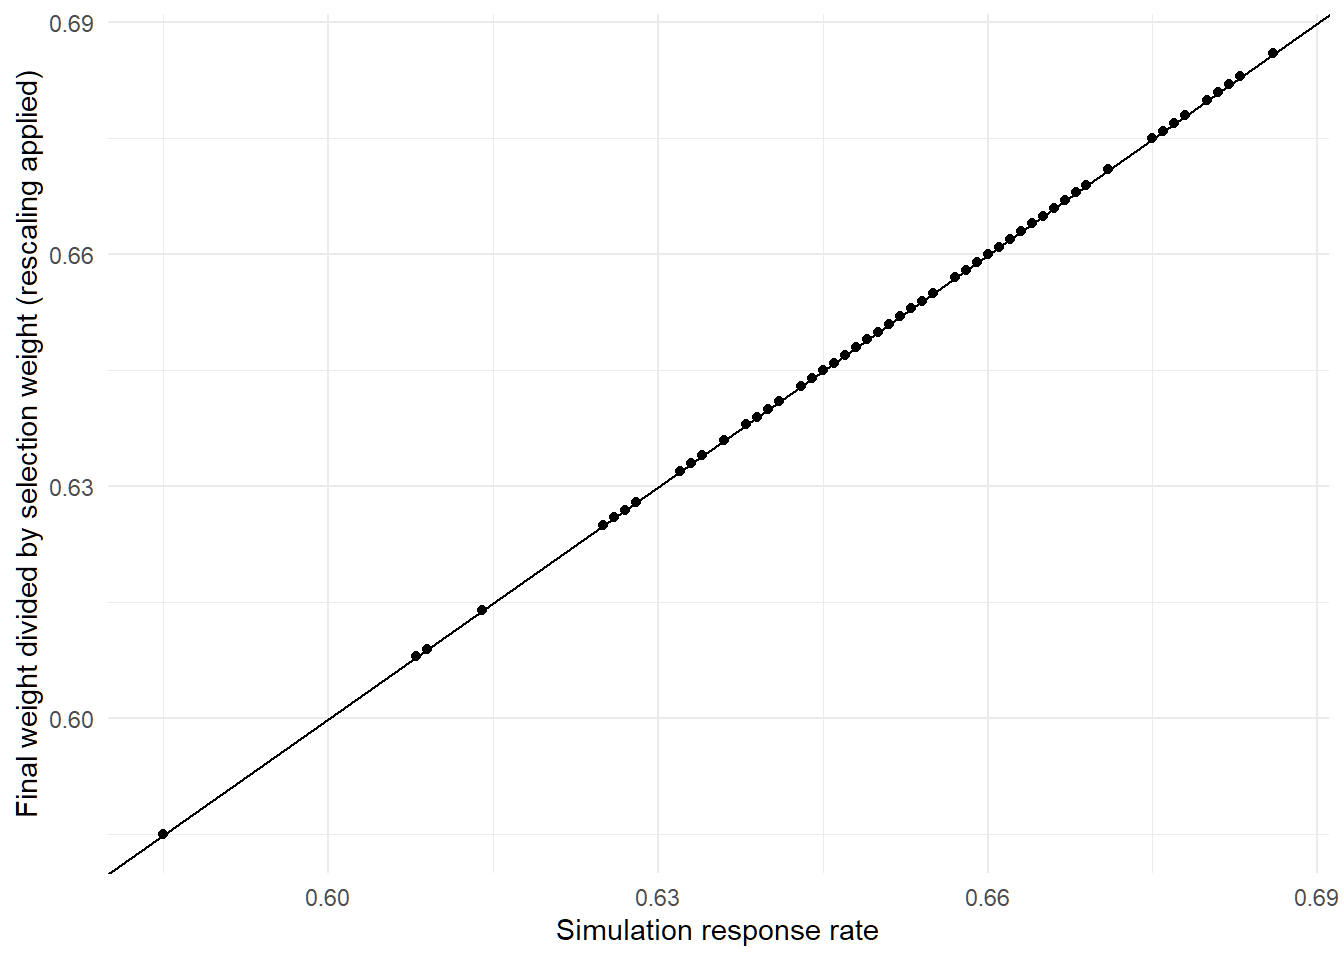
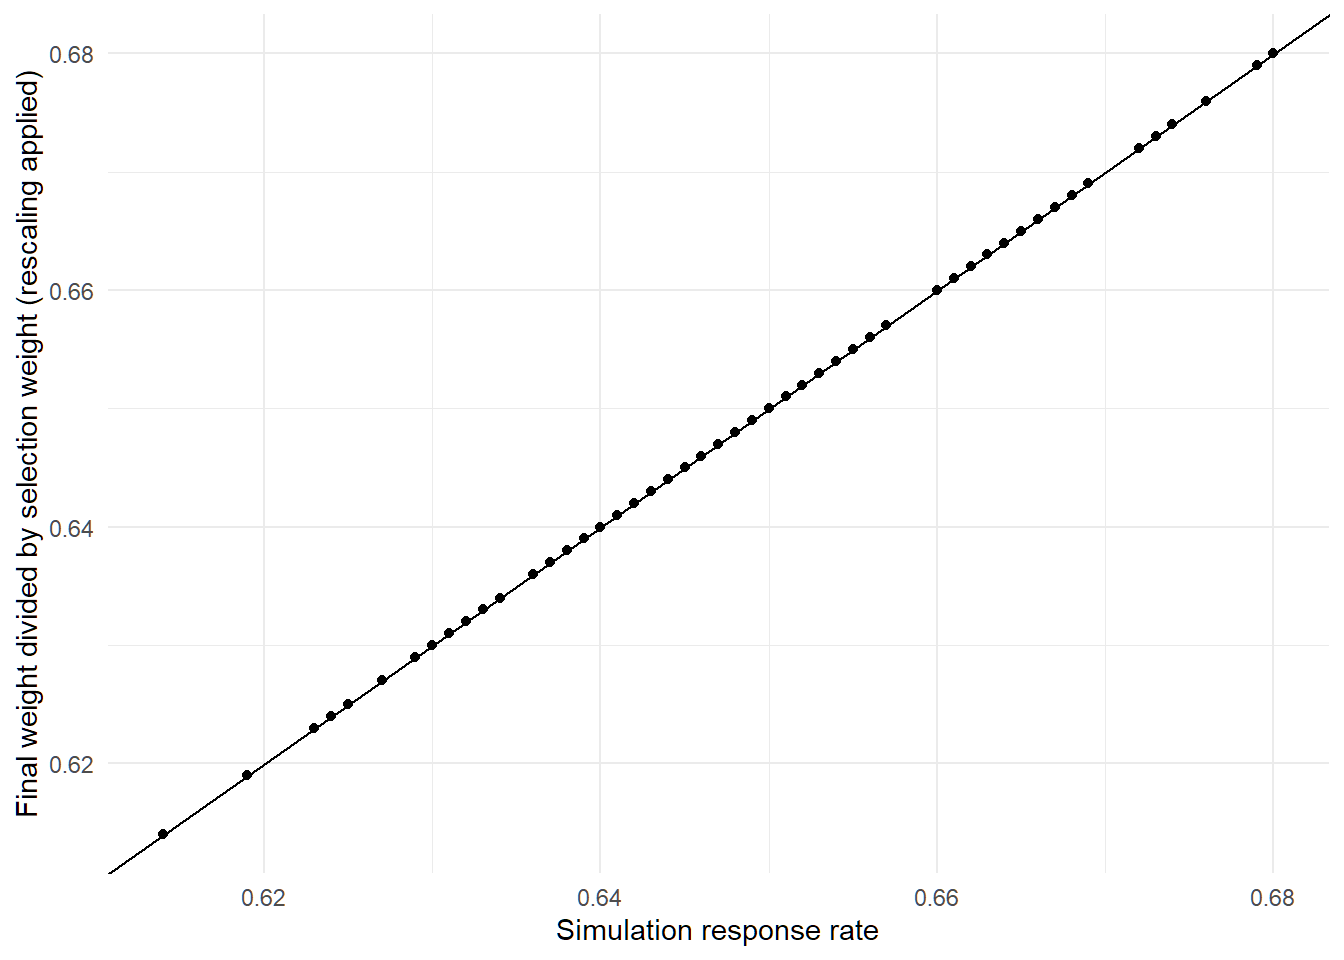
hmm

diff --git a/content/post/why-is-this-the-answer/index.html b/content/post/why-is-this-the-answer/index.html
@@ -1,7 +1,7 @@
 ---
 title: "Why is this the answer?"
 author: "Jonathan Mellon"
-date: 2021-12-14T21:13:14-05:00
+date: 2021-12-14T21:10:14-05:00
 categories:
 - post-stratification
 - response rate
@@ -33,12 +33,12 @@ math: yes
 <p>After an hour of failing to work out an analytic proof, I thought it would be worth doing a simulation to see whether the claim is at least empirically true.</p>
 <p>Let’s do a simple two-stage sample where households are randomly selected, then a respondent is randomly selected from that household. This means that people in larger households have a lower probability of selection. If you live alone there’s a 100% chance of selection conditional on your household being selected, whereas if you live in a two-person household your selection probability is 50%.</p>
 <p>Conditional on being selected for the survey, rich people respond at 100% and poor people respond at 30%.</p>
-<p>So after simulating that, I look at the response rate for the simulation (0.671) and the minimum value of the ratios of the final true weight to the selection weight (0.656). Not far off, but also not identical. So, it looks like my initial guess about the constraint might be on the right track but not exactly right.</p>
+<p>So after simulating that, I look at the response rate for the simulation (0.662) and the minimum value of the ratios of the final true weight to the selection weight (0.671). Not far off, but also not identical. So, it looks like my initial guess about the constraint might be on the right track but not exactly right.</p>
 <p>Let’s try this a few more times and see whether it’s robust.</p>
 <p><img src="{{< blogdown/postref >}}index_files/figure-html/unnamed-chunk-2-1.png" width="672" /></p>
 <p>After 100 simulations, it’s clear that there’s a very strong relationship, but this not an exact match.</p>
 <p>So what’s going on with those ratios? The mean of the scaled inverse-probability weights is always exactly 1 in the simulation as is the mean of the scaled selection weights.</p>
-<p>However, the ratios themselves do not always have a mean of exactly one. In fact, on average, they are 0.009 away from 1. But should we actually expect these ratios to be near one on average? If I simulate two random vectors and rescale them to both have a mean of 1, the average ratio of them isn’t usually anywhere near 1.</p>
+<p>However, the ratios themselves do not always have a mean of exactly one. In fact, on average, they are 0.0108 away from 1. But should we actually expect these ratios to be near one on average? If I simulate two random vectors and rescale them to both have a mean of 1, the average ratio of them isn’t usually anywhere near 1.</p>
 <pre class="r"><code>set.seed(1298)
 A &lt;- abs(rnorm(1000))
 B &lt;- abs(rnorm(1000))
@@ -48,7 +48,7 @@ mean(A/B)</code></pre>
 <pre><code>## [1] 4.292947</code></pre>
 <p>OK, well what if I rescale the ratios so that they <em>actually</em> have a mean of 1 rather than just being close to that?</p>
 <p><img src="{{< blogdown/postref >}}index_files/figure-html/unnamed-chunk-6-1.png" width="672" /></p>
-<p>Apparently, that nails the minimum weight exactly. The mean absolute difference between this adjusted ratio and the response rate for the survey is just 0.0000000000000000688338275267597. At that point I’m willing to believe any remaining differences are just about floating point precision.</p>
+<p>Apparently, that nails the minimum weight exactly. The mean absolute difference between this adjusted ratio and the response rate for the survey is just 0.0000000000000000577315972805081. At that point I’m willing to believe any remaining differences are just about floating point precision.</p>
 </div>
 <div id="does-this-work-with-different-simulation-parameters" class="section level1">
 <h1>Does this work with different simulation parameters?</h1>
